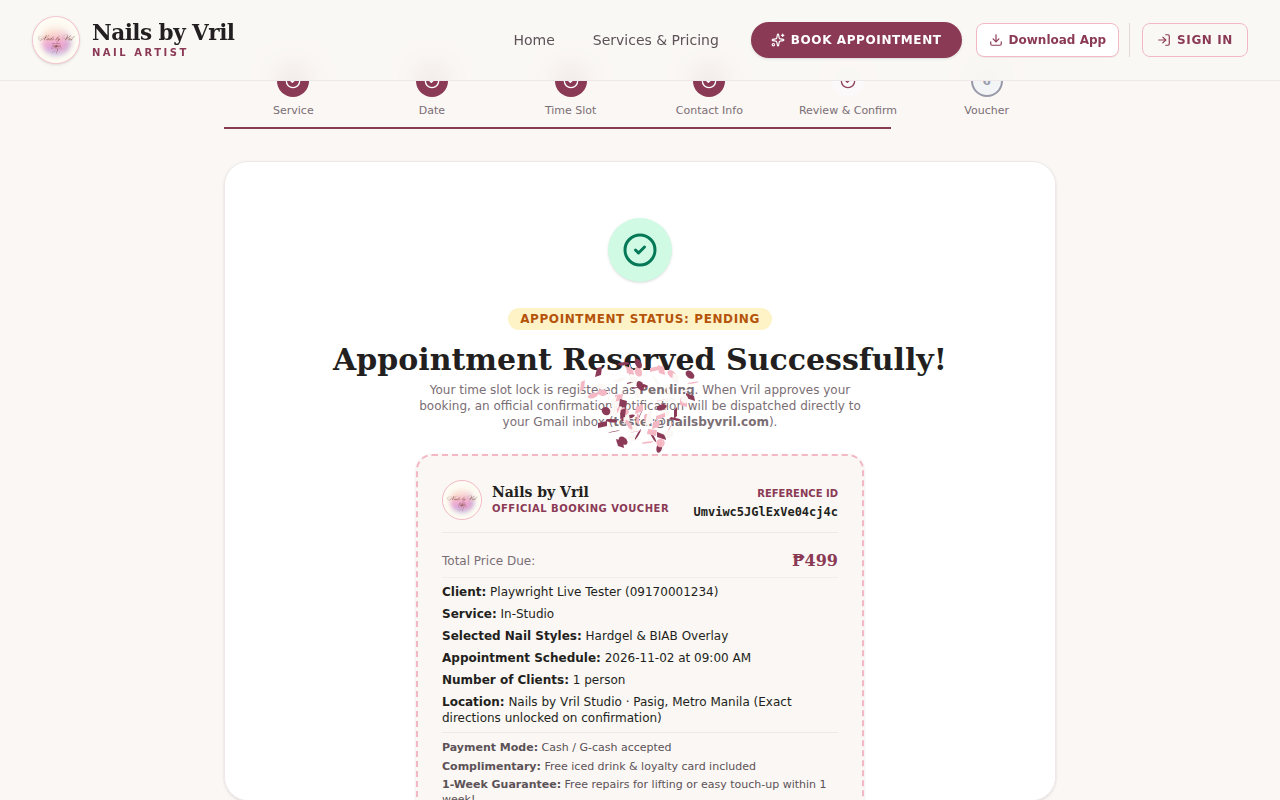
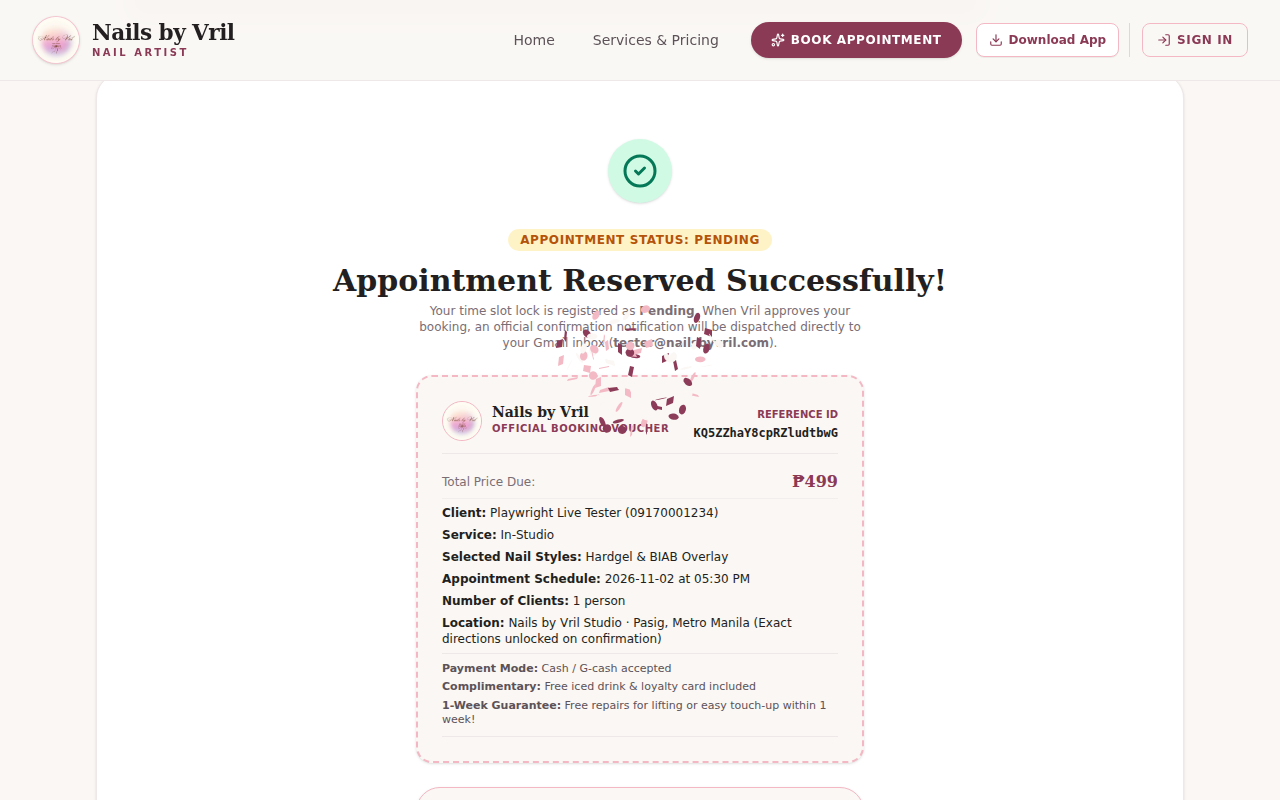
feat(ui): upgrade booking flow to full-screen natural layout (remove trapped scroll box)

diff --git a/src/pages/BookingWizardPage.tsx b/src/pages/BookingWizardPage.tsx
@@ -693,16 +693,12 @@ export const BookingWizardPage: React.FC<BookingWizardPageProps> = ({
   const goToStep = (stepNum: number) => {
     setCurrentStep(stepNum);
     window.scrollTo({ top: 0, behavior: 'smooth' });
-    const cardEl = document.getElementById('booking-wizard-card');
-    if (cardEl) {
-      cardEl.scrollTo({ top: 0, behavior: 'smooth' });
-    }
   };
 
   return (
-    <div className="max-w-4xl mx-auto px-4 sm:px-6 lg:px-8 py-6 sm:py-10 w-full">
+    <div className="max-w-6xl mx-auto px-4 sm:px-6 lg:px-8 py-8 sm:py-12 w-full transition-all">
       {/* Wizard Step Progress Tracker */}
-      <div className="mb-8">
+      <div className="mb-8 bg-white/90 backdrop-blur-md rounded-3xl border border-[#EFE8E9] p-5 sm:p-7 shadow-xs">
         <div className="flex items-center justify-between">
           {stepsList.map((stepName, idx) => {
             const stepNum = idx + 1;
@@ -710,29 +706,47 @@ export const BookingWizardPage: React.FC<BookingWizardPageProps> = ({
             const isCurrent = currentStep === stepNum;
 
             return (
-              <div key={stepName} className="flex flex-col items-center flex-1">
+              <button
+                key={stepName}
+                type="button"
+                onClick={() => {
+                  if (isCompleted) goToStep(stepNum);
+                }}
+                disabled={!isCompleted}
+                className={`flex flex-col items-center flex-1 transition-all ${
+                  isCompleted ? 'cursor-pointer hover:opacity-80' : 'cursor-default'
+                }`}
+              >
                 <div
-                  className={`w-8 h-8 rounded-full flex items-center justify-center text-xs font-bold transition-colors ${
+                  className={`w-9 h-9 sm:w-11 sm:h-11 rounded-full flex items-center justify-center text-xs sm:text-sm font-bold transition-all shadow-2xs ${
                     isCompleted
-                      ? 'bg-[#8B3A56] text-white'
+                      ? 'bg-[#8B3A56] text-white shadow-[#8B3A56]/20'
                       : isCurrent
-                      ? 'border-2 border-[#8B3A56] text-[#8B3A56] bg-white'
+                      ? 'border-2 border-[#8B3A56] text-[#8B3A56] bg-white ring-4 ring-[#8B3A56]/10'
                       : 'bg-gray-100 text-gray-400'
                   }`}
                 >
-                  {isCompleted ? <CheckCircle2 className="w-4 h-4" /> : stepNum}
+                  {isCompleted ? <CheckCircle2 className="w-5 h-5" /> : stepNum}
                 </div>
-                <span className="hidden sm:block text-[11px] font-medium text-[#7A6E74] mt-1.5">
+                <span
+                  className={`hidden sm:block text-[11px] lg:text-xs font-semibold mt-2 transition-colors ${
+                    isCurrent
+                      ? 'text-[#8B3A56]'
+                      : isCompleted
+                      ? 'text-[#231F20]'
+                      : 'text-[#A0959A]'
+                  }`}
+                >
                   {stepName}
                 </span>
-              </div>
+              </button>
             );
           })}
         </div>
-        <div className="relative mt-2">
-          <div className="absolute top-1/2 left-0 right-0 h-0.5 bg-[#EFE8E9] -translate-y-1/2 -z-10" />
+        <div className="relative mt-3.5">
+          <div className="absolute top-1/2 left-0 right-0 h-1 bg-[#EFE8E9] -translate-y-1/2 rounded-full -z-10" />
           <div
-            className="h-0.5 bg-[#8B3A56] transition-all duration-300"
+            className="h-1 bg-[#8B3A56] rounded-full transition-all duration-300"
             style={{ width: `${((currentStep - 1) / (stepsList.length - 1)) * 100}%` }}
           />
         </div>
@@ -740,16 +754,16 @@ export const BookingWizardPage: React.FC<BookingWizardPageProps> = ({
 
       {/* Error alert if any */}
       {submitError && (
-        <div className="mb-6 p-4 rounded-xl bg-red-50 border border-red-200 text-red-700 text-xs flex items-center gap-2">
-          <AlertCircle className="w-4 h-4 shrink-0" />
+        <div className="mb-6 p-4 sm:p-5 rounded-2xl bg-red-50 border border-red-200 text-red-700 text-xs sm:text-sm flex items-center gap-3 shadow-xs">
+          <AlertCircle className="w-5 h-5 shrink-0" />
           <span>{submitError}</span>
         </div>
       )}
 
-      {/* Wizard Card Body */}
+      {/* Wizard Card Body - Natural Full Page Flow (No Trapped Scroll Box!) */}
       <div
         id="booking-wizard-card"
-        className="bg-white rounded-3xl border border-[#EFE8E9] p-6 sm:p-10 shadow-sm text-left w-full max-h-[75vh] md:max-h-[80vh] overflow-y-auto overscroll-contain scroll-smooth focus:outline-none"
+        className="bg-white rounded-3xl border border-[#EFE8E9] p-6 sm:p-10 lg:p-12 shadow-sm text-left w-full transition-all focus:outline-none"
       >
         {/* STEP 1: Select Service */}
         {currentStep === 1 && (
@@ -1055,10 +1069,7 @@ export const BookingWizardPage: React.FC<BookingWizardPageProps> = ({
             <div id="step1-continue-button-container" className="pt-4 flex justify-end">
               <button
                 disabled={!isServiceStepValid()}
-                onClick={() => {
-                  setCurrentStep(2);
-                  window.scrollTo({ top: 0, behavior: 'smooth' });
-                }}
+                onClick={() => goToStep(2)}
                 className="px-6 py-2.5 rounded-full text-xs font-semibold uppercase tracking-wider text-white bg-[#8B3A56] hover:bg-[#722A42] disabled:opacity-40 transition-colors flex items-center gap-1.5 cursor-pointer shadow-xs"
               >
                 <span>Continue to Date</span>
@@ -1227,7 +1238,7 @@ export const BookingWizardPage: React.FC<BookingWizardPageProps> = ({
 
             <div className="pt-4 flex items-center justify-between">
               <button
-                onClick={() => setCurrentStep(1)}
+                onClick={() => goToStep(1)}
                 className="px-5 py-2.5 rounded-full text-xs font-semibold text-[#7A6E74] hover:text-[#231F20] flex items-center gap-1.5 cursor-pointer"
               >
                 <ArrowLeft className="w-4 h-4" />
@@ -1237,7 +1248,7 @@ export const BookingWizardPage: React.FC<BookingWizardPageProps> = ({
                 disabled={!selectedDate || !isDateAvailableForBooking(selectedDate, settings)}
                 onClick={() => {
                   if (isDateAvailableForBooking(selectedDate, settings)) {
-                    setCurrentStep(3);
+                    goToStep(3);
                   }
                 }}
                 className="px-6 py-2.5 rounded-full text-xs font-semibold uppercase tracking-wider text-white bg-[#8B3A56] hover:bg-[#722A42] disabled:opacity-40 disabled:cursor-not-allowed transition-colors flex items-center gap-1.5 cursor-pointer shadow-xs"
@@ -1315,7 +1326,7 @@ export const BookingWizardPage: React.FC<BookingWizardPageProps> = ({
 
             <div className="pt-4 flex items-center justify-between">
               <button
-                onClick={() => setCurrentStep(2)}
+                onClick={() => goToStep(2)}
                 className="px-5 py-2.5 rounded-full text-xs font-semibold text-[#7A6E74] hover:text-[#231F20] flex items-center gap-1.5 cursor-pointer"
               >
                 <ArrowLeft className="w-4 h-4" />
@@ -1323,7 +1334,7 @@ export const BookingWizardPage: React.FC<BookingWizardPageProps> = ({
               </button>
               <button
                 disabled={!selectedSlot}
-                onClick={() => setCurrentStep(4)}
+                onClick={() => goToStep(4)}
                 className="px-6 py-2.5 rounded-full text-xs font-semibold uppercase tracking-wider text-white bg-[#8B3A56] hover:bg-[#722A42] disabled:opacity-40 transition-colors flex items-center gap-1.5 cursor-pointer shadow-xs"
               >
                 <span>Enter Contact Details</span>
@@ -1576,7 +1587,7 @@ export const BookingWizardPage: React.FC<BookingWizardPageProps> = ({
 
             <div className="pt-4 flex items-center justify-between">
               <button
-                onClick={() => setCurrentStep(3)}
+                onClick={() => goToStep(3)}
                 className="px-5 py-2.5 rounded-full text-xs font-semibold text-[#7A6E74] hover:text-[#231F20] flex items-center gap-1.5 cursor-pointer"
               >
                 <ArrowLeft className="w-4 h-4" />
@@ -1584,7 +1595,7 @@ export const BookingWizardPage: React.FC<BookingWizardPageProps> = ({
               </button>
               <button
                 disabled={!customerName.trim() || !customerEmail.trim() || !customerPhone.trim()}
-                onClick={() => setCurrentStep(5)}
+                onClick={() => goToStep(5)}
                 className="px-6 py-2.5 rounded-full text-xs font-semibold uppercase tracking-wider text-white bg-[#8B3A56] hover:bg-[#722A42] disabled:opacity-40 transition-colors flex items-center gap-1.5 cursor-pointer shadow-xs"
               >
                 <span>Review Details</span>
@@ -1722,7 +1733,7 @@ export const BookingWizardPage: React.FC<BookingWizardPageProps> = ({
 
             <div className="pt-2 flex items-center justify-between">
               <button
-                onClick={() => setCurrentStep(4)}
+                onClick={() => goToStep(4)}
                 className="px-5 py-2.5 rounded-full text-xs font-semibold text-[#7A6E74] hover:text-[#231F20] flex items-center gap-1.5 cursor-pointer"
               >
                 <ArrowLeft className="w-4 h-4" />
@@ -1873,7 +1884,7 @@ export const BookingWizardPage: React.FC<BookingWizardPageProps> = ({
               </button>
               <button
                 onClick={() => {
-                  setCurrentStep(1);
+                  goToStep(1);
                   setSelectedService(null);
                   setSelectedSlot('');
                   setAttachedImageDataUrl('');
